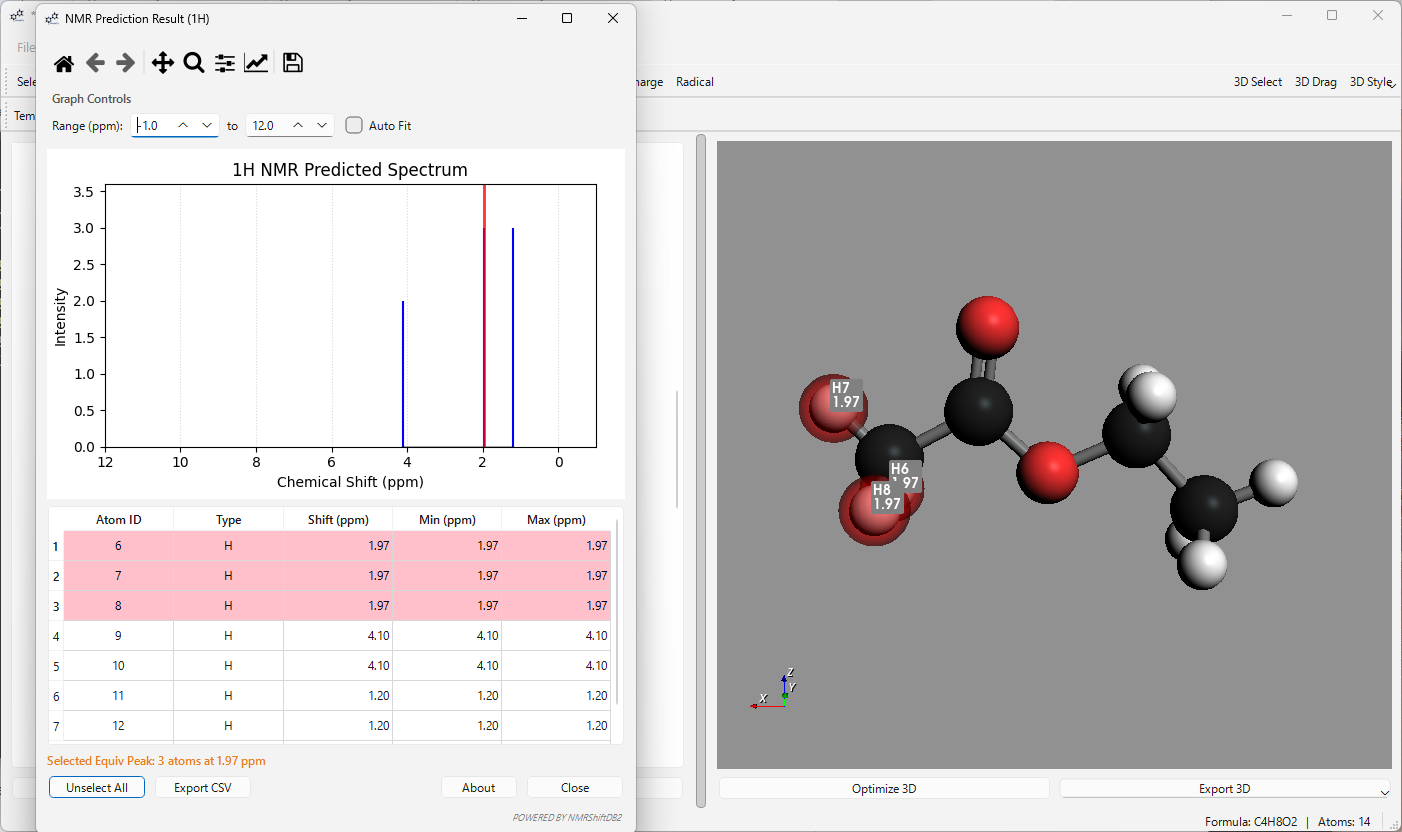
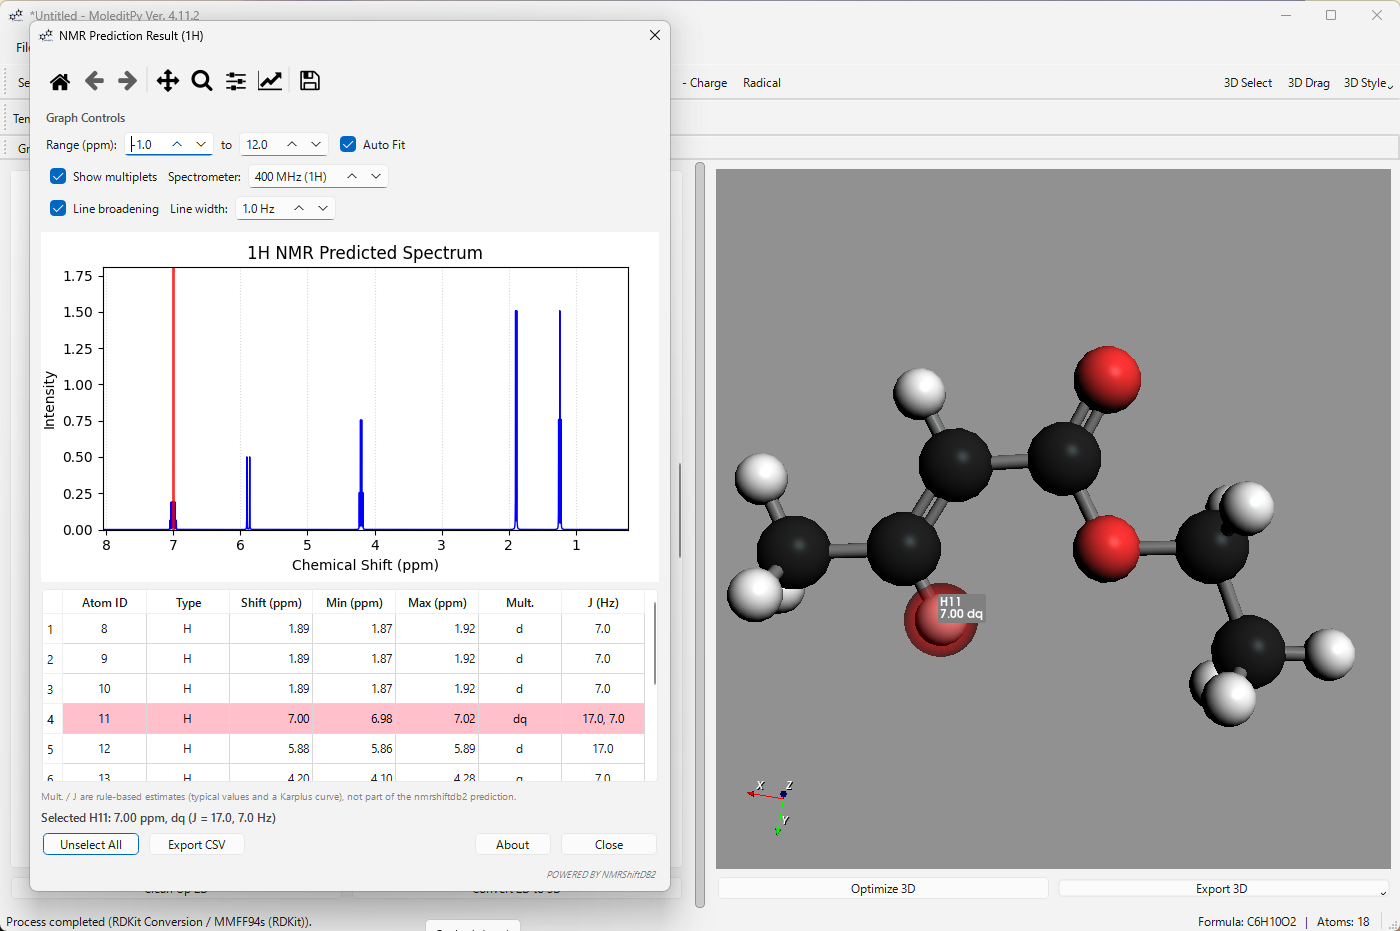
README: coupling and line broadening, new screenshots; 13C Auto Fit margin
img/main.png is retaken in MoleditPy with the 2.5.0 result window (Mult./J
columns, multiplets, broadening) and the 3D highlight; img/coupling.png
shows the window on its own.

Auto Fit added 1 ppm beside the outermost peaks, which on a 13C axis put
them on the frame; it now adds 10 ppm for 13C.

diff --git a/tests/test_coupling_integration.py b/tests/test_coupling_integration.py
@@ -157,6 +157,19 @@ def test_plot_splits_the_signal_when_multiplets_are_shown():
     assert list(shifts) == [1.2] and list(heights) == [3.0]
 
 
+@pytest.mark.parametrize("nucleus, margin", [("1H", 1.0), ("13C", 10.0)])
+def test_auto_fit_leaves_room_beside_the_end_peaks(nucleus, margin):
+    dlg = _dialog(nucleus)
+    dlg.auto_scale_chk.setChecked(True)
+    dlg.broadening_chk.setChecked(False)
+    dlg.multiplet_chk.setChecked(False)  # fit to the signal centres
+    dlg.plot_spectrum()
+    shifts = [item["ppm"] for item in dlg.data]
+    left, right = dlg.figure.axes[0].set_xlim.call_args[0]
+    assert left == pytest.approx(max(shifts) + margin)
+    assert right == pytest.approx(min(shifts) - margin)
+
+
 def test_observe_frequency_for_13c():
     assert nmrmod.observe_mhz(400.0, "13C") == pytest.approx(100.58, abs=0.01)
 

diff --git a/nmr_predicator_nmrshiftdb2/__init__.py b/nmr_predicator_nmrshiftdb2/__init__.py
@@ -52,6 +52,10 @@ JAVA_TIMEOUT_SEC = 300
 #: 13C observe frequency relative to 1H (gyromagnetic ratio).
 C13_TO_H1 = 0.25145
 
+#: Room left beside the outermost peaks by "Auto Fit". 1 ppm is a lot of a
+#: 1H axis but nothing on a 13C one, where it put the end peaks on the frame.
+AUTO_FIT_MARGIN_PPM = {"1H": 1.0, "13C": 10.0}
+
 
 def table_headers(nucleus):
     """Result table / CSV columns."""
@@ -574,7 +578,8 @@ class ResultDialog(QDialog):
 
         # NMR Convention: X-axis descending
         if self.auto_scale_chk.isChecked():
-            left, right = max(shifts) + 1.0, min(shifts) - 1.0
+            margin = AUTO_FIT_MARGIN_PPM.get(self.nucleus, 1.0)
+            left, right = max(shifts) + margin, min(shifts) - margin
         else:
             left, right = self.max_ppm_spin.value(), self.min_ppm_spin.value()
 

diff --git a/README.md b/README.md
@@ -5,7 +5,7 @@
 [![GitHub tag](https://img.shields.io/github/v/tag/HiroYokoyama/moleditpy_nmr_predicator_nmrshiftdb2?label=version)](https://github.com/HiroYokoyama/moleditpy_nmr_predicator_nmrshiftdb2/tags)
 [![GitHub Downloads](https://img.shields.io/github/downloads/HiroYokoyama/moleditpy_nmr_predicator_nmrshiftdb2/total)](https://github.com/HiroYokoyama/moleditpy_nmr_predicator_nmrshiftdb2/releases)
 
-A plugin for **Moleditpy** that predicts **1H** and **13C** NMR chemical shifts using the **nmrshiftdb2** machine learning models. It provides an interactive spectrum viewer and 3D atom highlighting.
+A plugin for **Moleditpy** that predicts **1H** and **13C** NMR chemical shifts using the **nmrshiftdb2** machine learning models, and estimates the **coupling pattern** of every signal (s, d, t, q, dd, dq, ... with J in Hz). It provides an interactive spectrum viewer and 3D atom highlighting. Everything runs locally; nothing is sent over the network.
 
 ![](img/main.png)
 
@@ -15,6 +15,17 @@ A plugin for **Moleditpy** that predicts **1H** and **13C** NMR chemical shifts 
 * **Interactive Spectrum:** Visualize the result as a stick spectrum using Matplotlib.
 * **3D Visualization:** Hovering over peaks or table rows highlights the corresponding atoms in the Moleditpy 3D view (PyVista).
 * **Data Table:** Detailed list of chemical shifts and atom assignments.
+* **Coupling estimates** (since 2.5.0): multiplicity and J for every 1H signal, and the carbon multiplicity (s/d/t/q) with 1J(CH) for 13C. The spectrum can show the multiplets split at your spectrometer frequency.
+* **Line broadening** (on by default): Lorentzian lines instead of sticks, 1 Hz wide for 1H and 2 Hz for 13C, adjustable or switched off.
+* **CSV export** including the multiplicities and J values.
+
+![Ethyl (E)-crotonate, 1H, with multiplets](img/coupling.png)
+
+*Ethyl (E)-crotonate as predicted by nmrshiftdb2, with the estimated multiplets: dq 7.00, d 5.88, q 4.20, d 1.89, t 1.24 ppm.*
+
+### How the couplings are estimated
+
+nmrshiftdb2 predicts shifts only. The multiplets come from `coupling.py`, a small rule-based module shared with the [CASCADE predictor](https://github.com/HiroYokoyama/moleditpy_nmr_predictor_cascade): geminal 12 Hz (=CH2 2 Hz), vicinal 7 Hz across a freely rotating bond, a Karplus curve on the 3D dihedral across ring bonds, alkene cis 10 / trans 17 Hz, aromatic ortho 7.5 / meta 1.5 Hz, and 1J(CH) from the hybridisation (125 / 157 / 159 / 249 Hz) plus heteroatom increments. OH/NH/SH protons are treated as exchanging. These are typical values for orientation, not a fit to a measured spectrum; spectra are drawn first-order. The About box shows the shared module version.
 
 ## Requirements
 
@@ -36,7 +47,8 @@ A plugin for **Moleditpy** that predicts **1H** and **13C** NMR chemical shifts 
 4.  The result dialog will appear. You can:
     * **Hover** over the graph peaks to see the assignment.
     * **Click** on the table rows to highlight atoms in 3D.
-    * Use **Graph Controls** to zoom or auto-scale the spectrum.
+    * Use **Graph Controls** to zoom or auto-scale the spectrum, show or hide the multiplets, set the spectrometer frequency, and change the line broadening.
+    * The **Mult.** and **J (Hz)** columns give the estimated coupling pattern.
 
 ## Licenses & Credits
 
